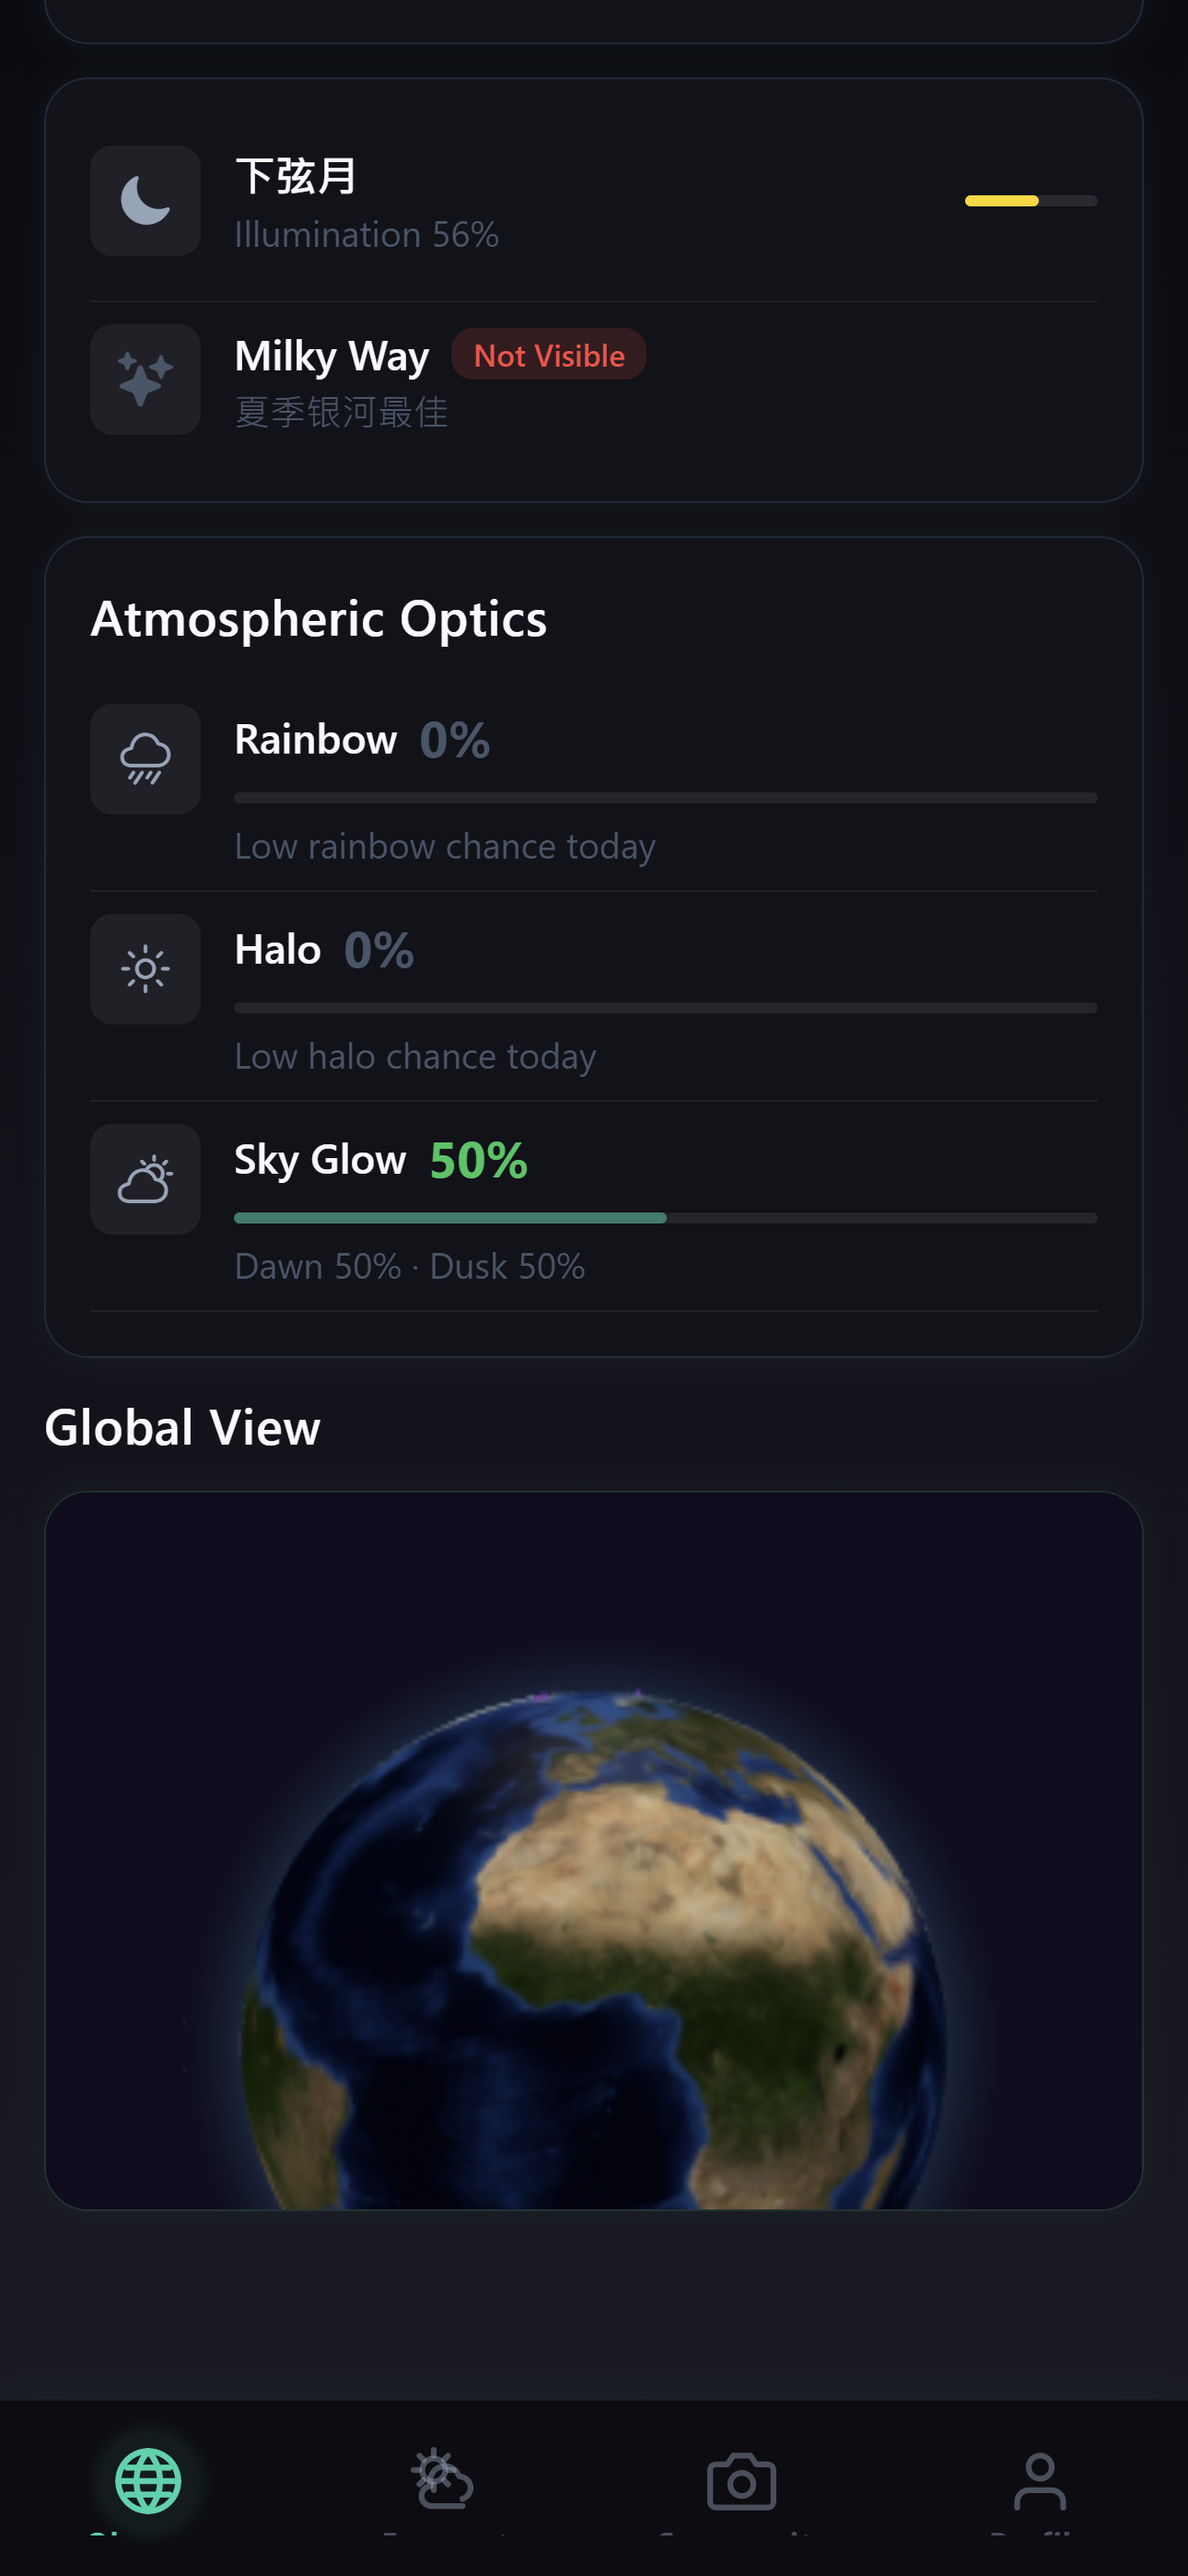
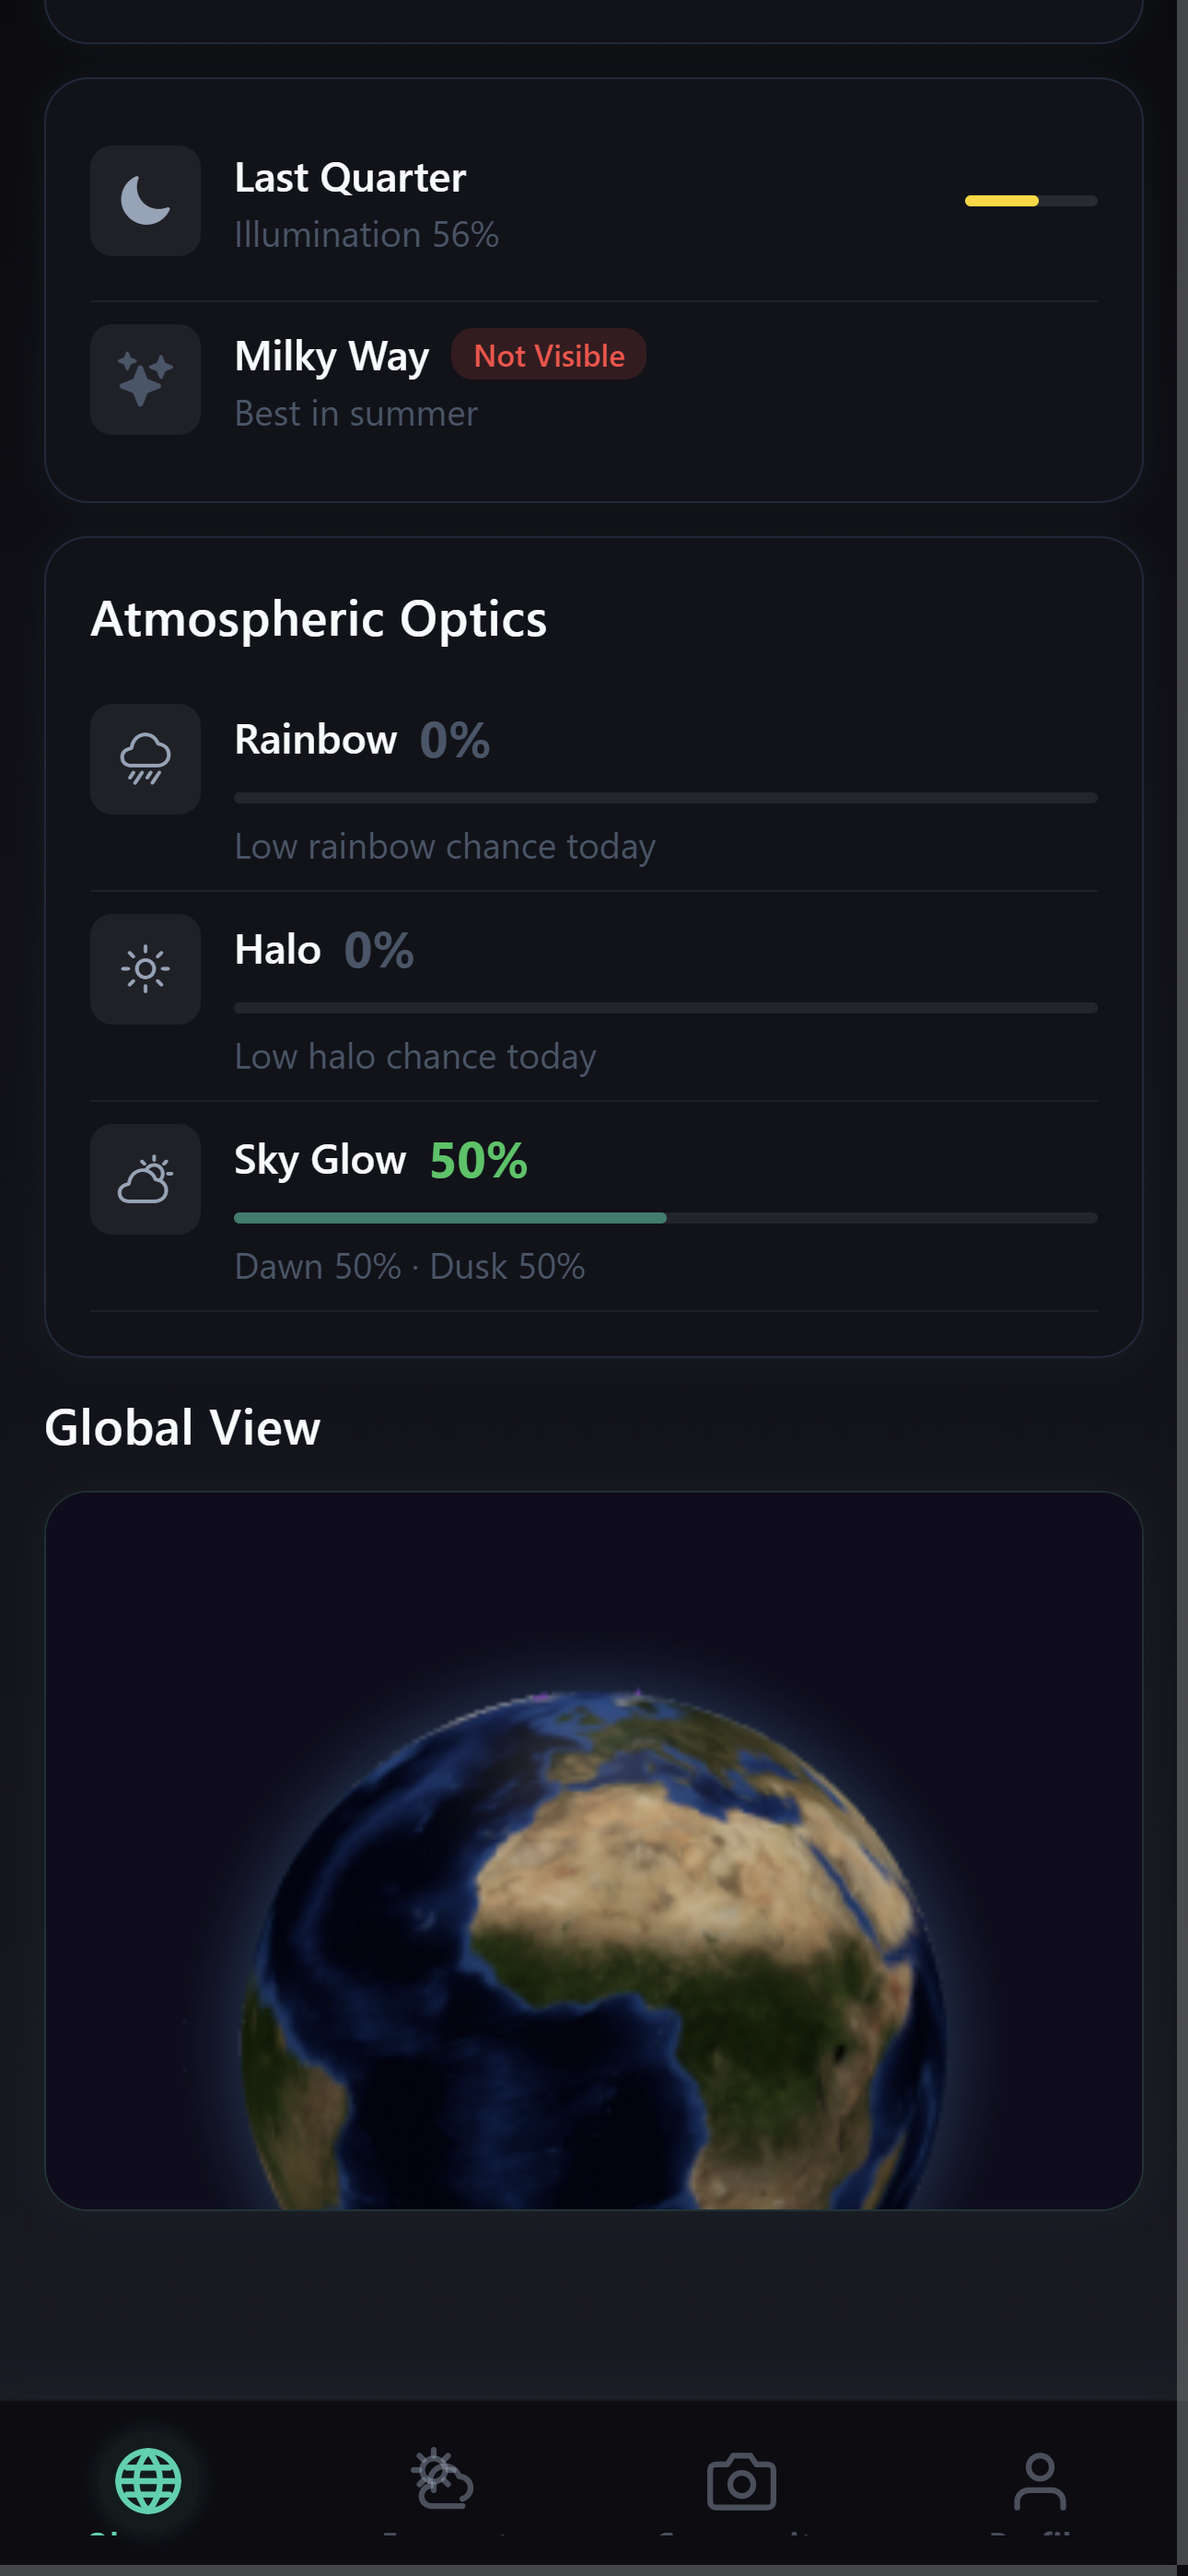
feat(store): 商店截图全套补齐 — 现象/地球仪 6.7寸 + 整套 6.5寸五张

diff --git a/ROADMAP.md b/ROADMAP.md
@@ -58,7 +58,7 @@
 | 2.2 | 设计一致性审计 | ✅ 2026-08-05 完成：审计报告 `docs/DESIGN_AUDIT.md`（7 项修复 + 1 个潜伏 bug）；新增令牌 `Bg.glass`/`Accent.blueHour`；卡片底/红绿金青色值归一；修复 `TextColor.Primary` 大小写 bug（4 文件 10 处，颜色此前静默回退）；顺带修复**首页生产白屏**（index.jsx 用 FontFamily 未导入，根路由 ReferenceError 整站空白） |
 | 2.3 | 空状态与错误态 | ✅ 2026-08-04 完成（除定位被拒）：首页/预报页红色错误横幅+重试按钮，区分「加载失败（含无网络）」与「API 配额耗尽」（qweatherService 新增 wasQuotaExceeded 标记，402 置位/成功复位）；city-list 收藏为空时显示虚线引导框（原直接隐藏分组）；定位被拒暂不适用——App 采用手动选城市、未申请定位权限 |
 | 2.4 | 合规文档 | ✅ 2026-08-05 完成（除 W-8BEN 需本人填写）：中英双语隐私政策公开页 `https://play-weather-app.vercel.app/privacy-policy.html`（含删除账号/举报联系章节）；profile 关于区接链接 + 删除账号入口（确认弹窗→邮件请求，7 天内处理）；社区页举报/联系入口；`docs/data-safety.md` 商店数据安全表单预填（Play Data Safety + Apple 隐私标签 + GDPR 自查） |
-| 2.5 | 商店素材 | 部分完成 2026-08-05：英文上架文案 `docs/store-listing.md`（App Store 名称/副标题/关键词/描述 + Play 短描述）；英文截图 3 张已截（6.7" 1290×2796：首页 hero+拍摄窗口、预报页光线时间轴+7 天、我的页登录）存 `store-assets/`；待补：现象特写、3D 地球仪、6.5"（1242×2688）尺寸；已知瑕疵已全部修复（`83a174b`+`dc9cf01`）：英文城市名英化（cityNames.js 映射 18 城，首页/profile 接入，未命中回退原名）、风向/天气文本英化（windDirEn/weatherTextEn 防缓存竞态）、语言切换后自动重拉数据（prevLangRef）、Today/Tomorrow 折行/截断修复（dayName 宽 86 + numberOfLines=1），线上实测通过 |
+| 2.5 | 商店素材 | ✅ 2026-08-05 完成（截图部分）：英文上架文案 `docs/store-listing.md`（App Store 名称/副标题/关键词/描述 + Play 短描述）；截图全套 6+5 张——6.7"（1290×2796）：01-home-zh、02-home-en、03-forecast-en、04-profile-en、05-phenomenon-en（月相/银河+大气光学）、06-globe-en（晨昏线地球）；6.5"（1242×2688）`store-assets/6.5inch/` 五张英文对应；i18n 瑕疵全部修复（`83a174b`/`dc9cf01`/`43ea346`）：城市名英化（cityNames.js 18 城映射）、风向/天气文本英化（windDirEn/weatherTextEn）、月相/银河质量/季节因素英化（moonPhaseNameEn/seasonFactorEn/mwQualityEn）、语言切换自动重拉（prevLangRef）、Today/Tomorrow 折行修复（dayName 宽 86），均线上实测通过 |
 | 2.6 | EAS Build 双端 profile | iOS TestFlight + Android 封闭测试（Play 新号需约14天封闭测试，提前启动） |
 | 2.7 | 测试补齐 | ✅ 2026-08-05 完成：现象算法（霞光/丁达尔/彩虹/日晕/拍摄窗口 28 用例）、缓存层（读写/TTL/双层/清理/装饰器 13 用例）、API 代理（白名单/参数透传/缓存/限流 15 用例），共 56 用例全过；统一入口 `npm test`（Node 24 原生 TS + ESM loader 重定向 AsyncStorage stub），基建在 `scripts/`（tap 断言库/loader/stub） |
 | 2.8 | 性能 | 地球仪低端机默认 optimized 版 + 帧率检测自动降级 |

diff --git a/docs/store-listing.md b/docs/store-listing.md
@@ -58,9 +58,13 @@ Golden hour, sunset glow & aurora forecasts with smart reminders
 |---|------|------|------|
 | 1 | 首页 hero：今晚极光/晚霞卡片 + 拍摄窗口卡 | 主卖点「今晚拍什么」 | ✅ `store-assets/02-home-en.png` |
 | 2 | 逐小时 + 7 天预报页 | 常规天气能力 | ✅ `store-assets/03-forecast-en.png` |
-| 3 | 现象预报（霞光概率/蓝时刻倒计时） | 差异化功能 | 待截 |
-| 4 | 3D 地球仪/台风 | 视觉亮点 | 待截 |
+| 3 | 现象预报（霞光概率/蓝时刻倒计时） | 差异化功能 | ✅ `store-assets/05-phenomenon-en.png`（月相/银河 + 大气光学三卡） |
+| 4 | 3D 地球仪/台风 | 视觉亮点 | ✅ `store-assets/06-globe-en.png`（晨昏线地球全景） |
 | 5 | 「我的」多语言与提醒设置 | 国际化+提醒 | ✅ `store-assets/04-profile-en.png`（未登录态） |
+
+6.5"（1242×2688）整套已补齐，存 `store-assets/6.5inch/`：01-home-en、02-forecast-en、03-phenomenon-en、04-globe-en、05-profile-en。
+
+注意：6.5" 模拟在页面导航后会被重置，需重新下发 CDP 覆盖并立即截图。
 
 尺寸要求：iOS 6.7"（1290×2796）、6.5"（1242×2688）；Android 最小 1080px 宽、建议 1080×2340 起。
 拍摄方式：WebBridge 模拟视口截图（CDP `Emulation.setDeviceMetricsOverride`，deviceScaleFactor=3），存 `store-assets/`。
